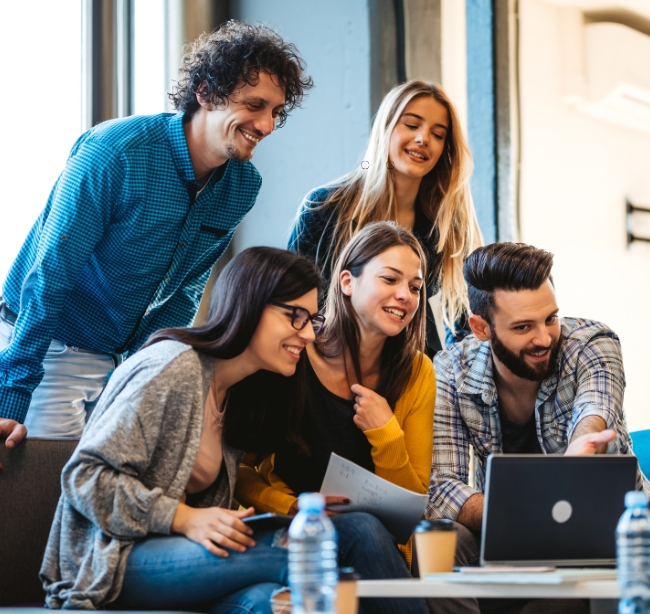
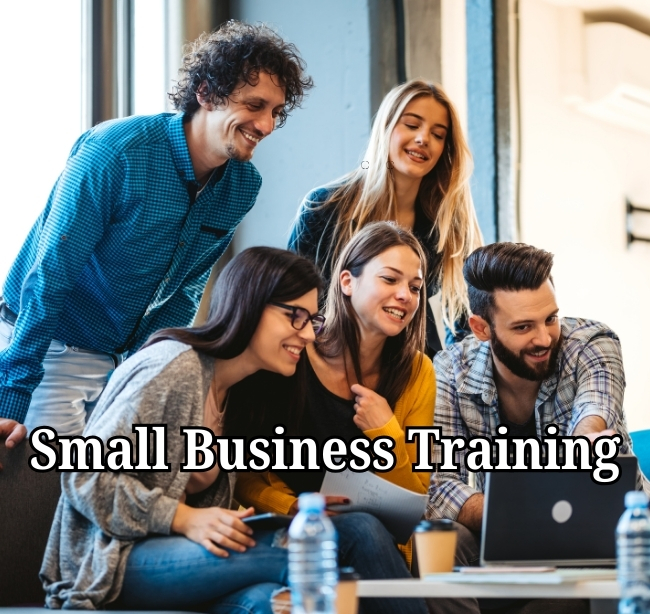
services image updated

Changed region(s): [[0.0308, 0.6808, 0.9538, 0.8046]]

diff --git a/frontend/src/view/Home.jsx b/frontend/src/view/Home.jsx
@@ -137,7 +137,7 @@ const Home = () => {
 
   const services = [
     {
-      title: "Small Business Training",
+      title: "",
       image: images.image_Card01,
       gif: images.image_GIF01,
       link: "./ApplicationForm",
@@ -154,7 +154,7 @@ const Home = () => {
       backgroundImage: images.image_ServicePopup01,
     },
     {
-      title: "Exploring Self-Employment Workshop",
+      title: "",
       image: images.image_Card04,
       gif: images.image_GIF04,
       paragraph: [
@@ -172,7 +172,7 @@ const Home = () => {
     },
 
     {
-      title: "Business Health Check",
+      title: "",
       image: images.image_Card03,
       gif: images.image_GIF03,
       paragraph: [
@@ -189,7 +189,7 @@ const Home = () => {
       backgroundImage: images.image_ServicePopup03,
     },
     {
-      title: "Business Advice",
+      title: "",
       image: images.image_Card02,
       gif: images.image_GIF02,
       paragraph: [
